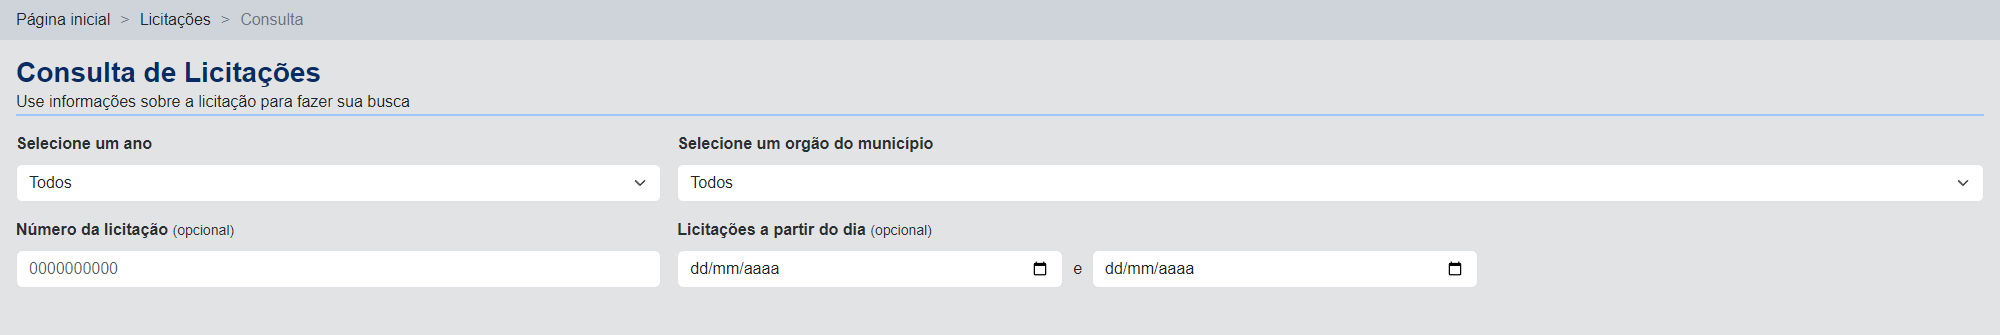
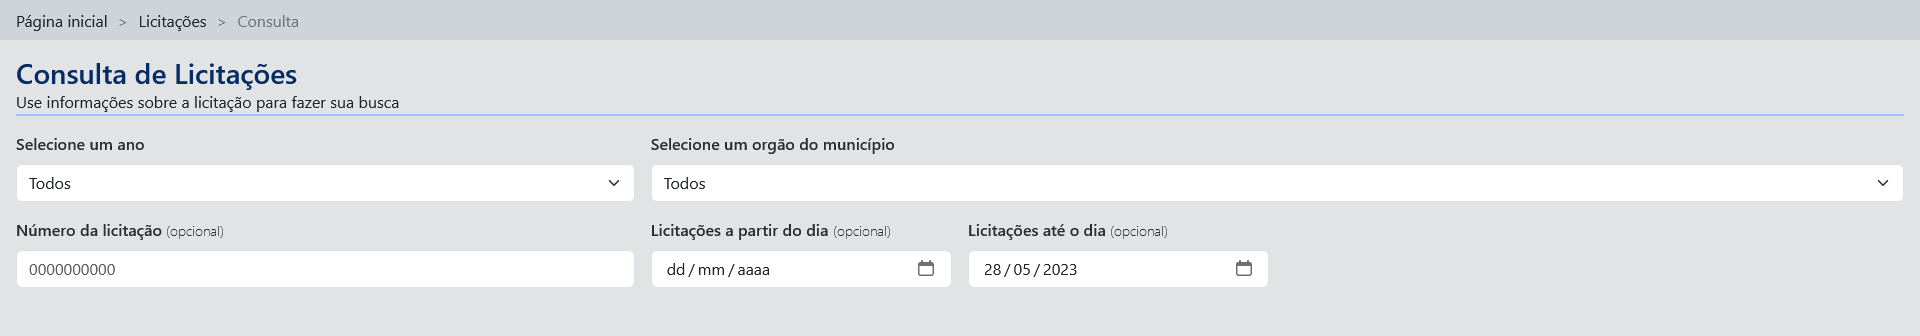
ajustando o exemplo de text field

diff --git a/elements/text-field/example/index.html b/elements/text-field/example/index.html
@@ -32,6 +32,7 @@
                     <option>...</option>
                 </select>
             </div>
+
             <div class="col-8">
                 <label class="form-label fw-semibold text-secondary-emphasis">Selecione um
                     orgão do município</label>
@@ -40,22 +41,26 @@
                     <option>...</option>
                 </select>
             </div>
+
             <div class="col-4">
                 <label class="form-label fw-semibold text-secondary-emphasis">Número da licitação <span class="small fw-light">(opcional)</span></label>
                 <input type="text" class="form-control" placeholder="0000000000">
             </div>
 
-            <div class="col-5">
+            <div class="col-2">
                 <label class="form-label fw-semibold text-secondary-emphasis">Licitações a partir do dia <span class="small fw-light">(opcional)</span></label>
-                <div class="d-flex flex-row align-items-center">
-                    <input type="date" class="form-control" placeholder="">
-                    <span>e</span>
-                    <input type="date" class="form-control" placeholder="">
-                </div>
+                <input type="date" class="form-control" placeholder="">
+            </div>
+
+            <div class="col-2">
+                <label class="form-label fw-semibold text-secondary-emphasis">Licitações até o dia <span class="small fw-light">(opcional)</span></label>
+                <input id="data2input" type="date" class="form-control" placeholder="">
             </div>
         </form>
 
     </section>
 </main>
-
+<script>
+    document.getElementById('data2input').valueAsDate = new Date();
+</script>
 </html>
